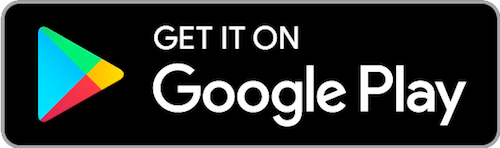
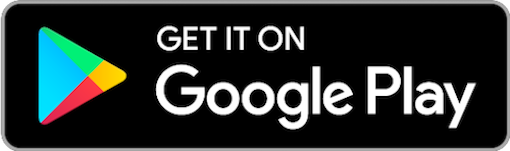
Misc

diff --git a/website/public/index.html b/website/public/index.html
@@ -51,7 +51,8 @@
                     <a href="https://play.google.com/store/apps/details?id=com.aaronep.andy" target="_blank" role="button"><img src="android_store.png" class="img-responsive" alt="Responsive image"></a>
                 </div>
                 <div class="col-md-6">
-                    <a href="https://itunes.apple.com/us/app/virtualcrit/id1166352991?ls=1&mt=8" target="_blank" role="button"><img src="apple_store.png" class="img-responsive" alt="Responsive image"></a>
+                  <!-- https://itunes.apple.com/us/developer/aaron-epstein/id1166352989?mt=8# -->
+                    <a href="https://itunes.apple.com/us/app/virtualcrit-ms/id1369929767?mt=8" target="_blank" role="button"><img src="apple_store.png" class="img-responsive" alt="Responsive image"></a>
                 </div>
             </div>
         </div>
@@ -157,17 +158,20 @@
                 </p> -->
 
                 <div class="row">
-                  <div class="col-md-5">
-                      <a href='https://play.google.com/store/apps/details?id=com.virtualcrit.virtualcrit&pcampaignid=MKT-Other-global-all-co-prtnr-py-PartBadge-Mar2515-1' target="_blank" role="button"><img alt='Get it on Google Play' src='/google-play-badge.png' class="img-responsive" alt="Responsive image"/></a>
+                  <div class="col-md-4">
+                      <a href='https://play.google.com/store/apps/details?id=com.virtualcrit.virtualcrit&pcampaignid=MKT-Other-global-all-co-prtnr-py-PartBadge-Mar2515-1' target="_blank" role="button"><img alt='Get it on Google Play' src="android_store.png" class="img-responsive" alt="Responsive image"/></a>
                   </div>
-                </div>
-
-
-                <div class="row">
-                  <div class="col-md-5">
+                  <div class="col-md-4">
                       <a href="https://itunes.apple.com/us/app/virtualcrit/id1166352991?ls=1&mt=8" target="_blank" role="button"><img src="apple_store.png" class="img-responsive" alt="Responsive image"></a>
                   </div>
                 </div>
+
+
+                <!-- <div class="row">
+                  <div class="col-md-6">
+                      <a href="https://itunes.apple.com/us/app/virtualcrit/id1166352991?ls=1&mt=8" target="_blank" role="button"><img src="apple_store.png" class="img-responsive" alt="Responsive image"></a>
+                  </div>
+                </div> -->
                 <!-- <p>
                   <a href="https://itunes.apple.com/us/app/virtualcrit/id1166352991?ls=1&mt=8" target="_blank" role="button"><img src="apple_store.png" class="img-responsive" alt="Responsive image"></a>
                 </p> -->
